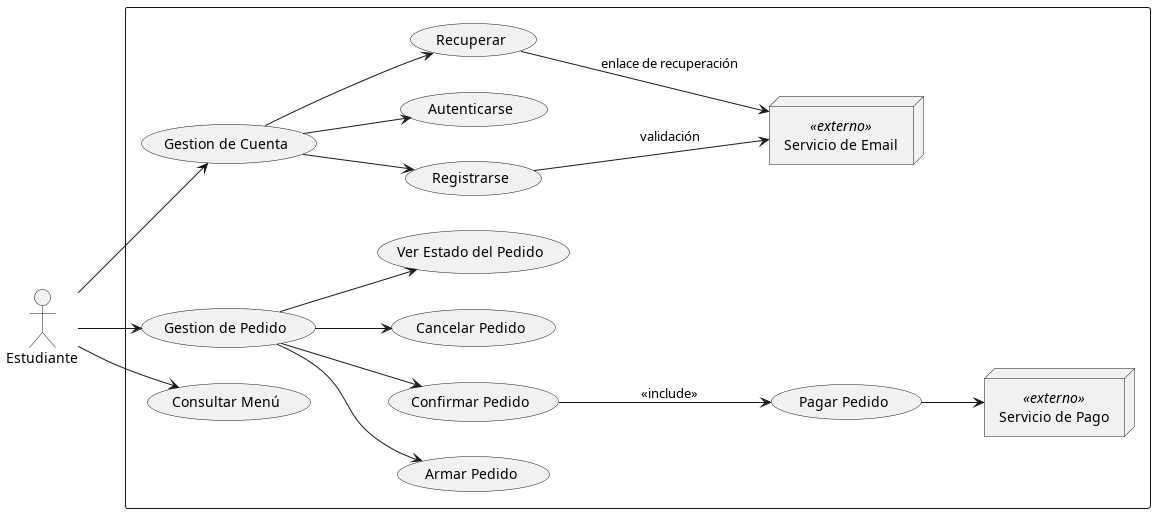
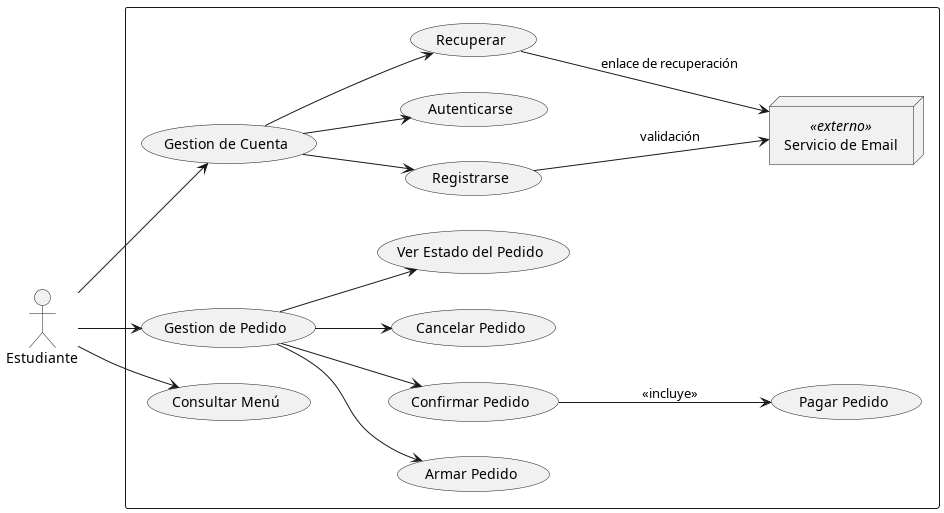
actualizo vista de escenarios

diff --git a/documentacion/src/tex/escenarios.tex b/documentacion/src/tex/escenarios.tex
@@ -10,7 +10,7 @@
 \vfill
 \begin{figure}[htbp]
     \centering
-    \includegraphics[width=1\textwidth]{img/caso_de_uso_personal}
+    \includegraphics[width=0.9\textwidth]{img/caso_de_uso_personal}
     \caption{Casos de uso: Personal del comedor}
     \label{fig:dcu2}
 \end{figure}